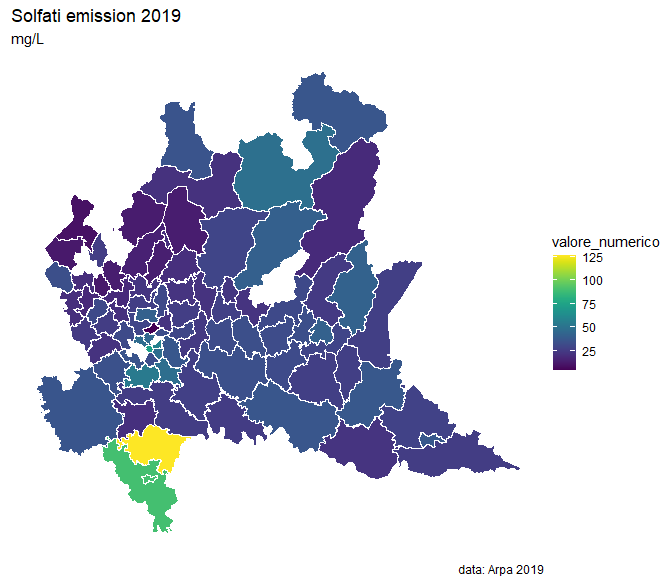
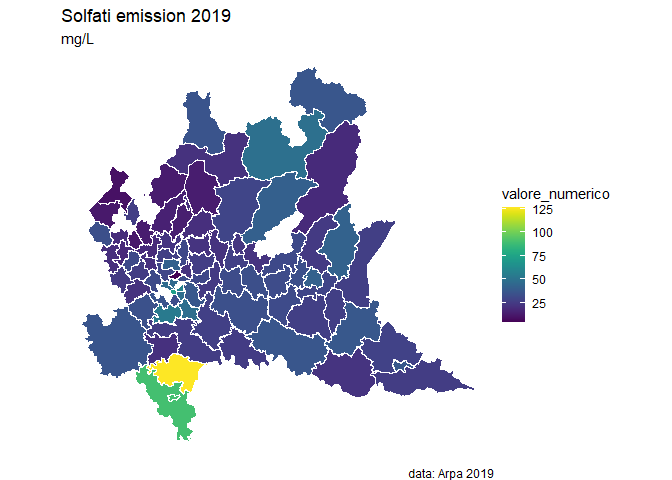
add plots

diff --git a/notebook/4_data_visualization.md b/notebook/4_data_visualization.md
@@ -5,7 +5,9 @@ Friday, 17<sup>th</sup> May 2024
 ## Introduction
 
 ``` r
-knitr::opts_chunk$set(fig.path='../notebook/4_data_visualization_files/figure-gfm/')
+knitr::opts_chunk$set(fig.path='../notebook/4_data_visualization_files/figure-gfm/',
+                      fig.align = 'center')
+
 library(data.table)
 library(geojsonio)
 library(ggplot2)
